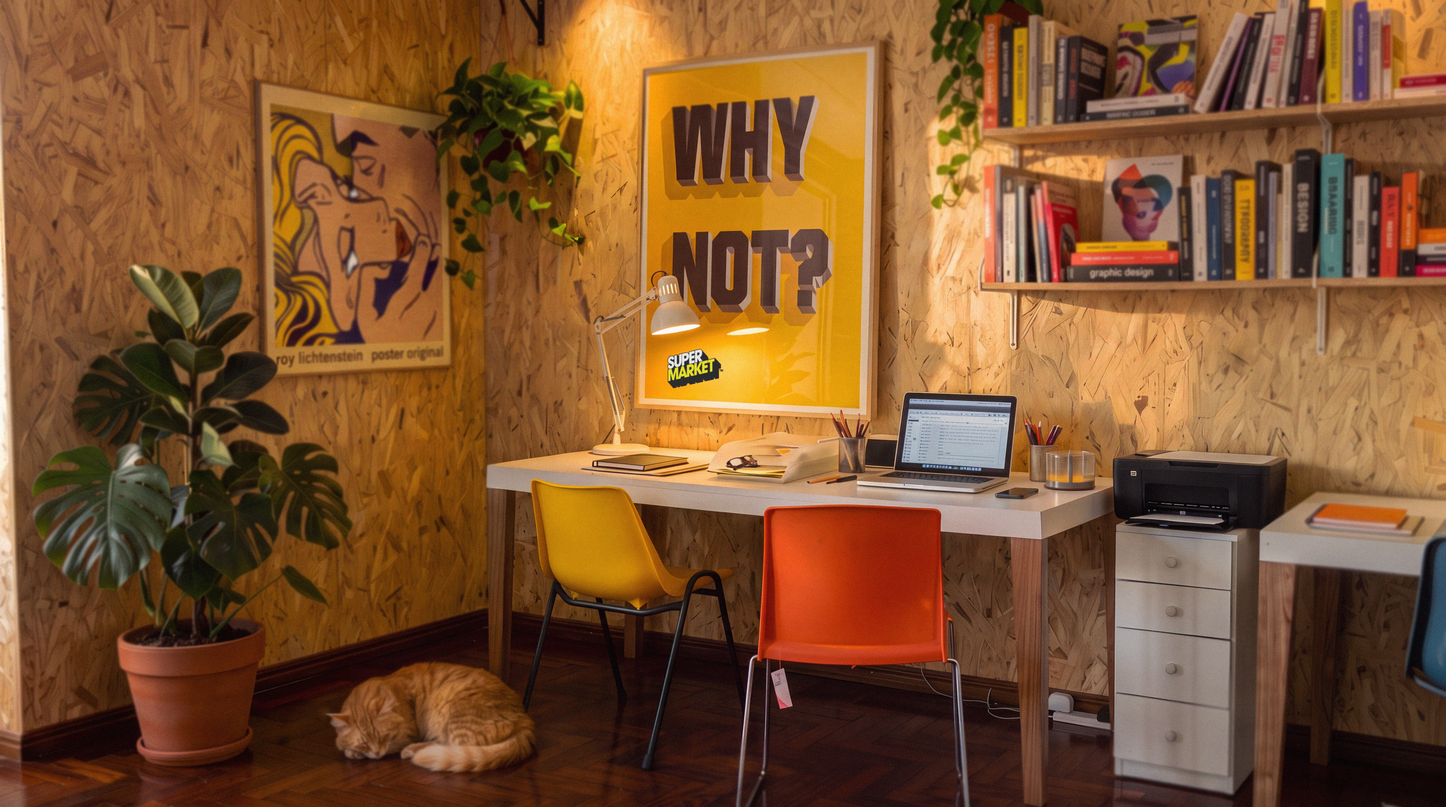
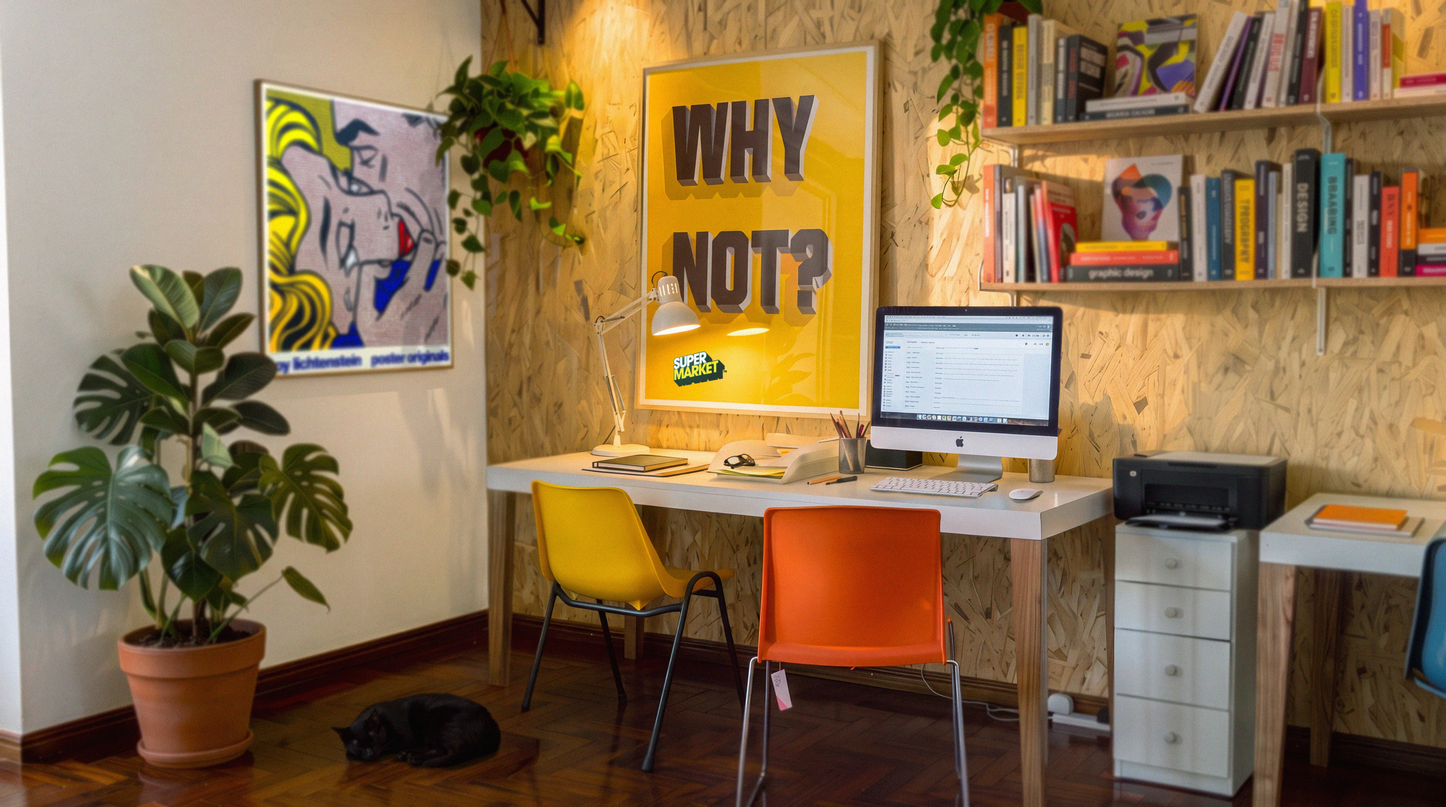
Fotos About Us

diff --git a/supermarket/about.html b/supermarket/about.html
@@ -38,7 +38,7 @@
 <section class="wrap about-hero-section">
   <div class="about-hero">
     <div class="about-hero__main">
-      <div class="carousel" data-carousel data-seconds="8" style="--fade:1.2s"><img class="carousel__slide is-active" src="assets/images/studio.jpg" alt="" fetchpriority="high" decoding="async"><img class="carousel__slide" data-src="assets/images/studio-gato.jpg" alt="" decoding="async"><img class="carousel__slide" data-src="assets/images/oficina03.jpg" alt="" decoding="async"><img class="carousel__slide" data-src="assets/images/hamza-shaikh-uXtvnZl_FWM-unsplash.webp" alt="" decoding="async"></div>
+      <div class="carousel" data-carousel data-seconds="8" style="--fade:1.2s"><img class="carousel__slide is-active" src="assets/images/studio-cuadro-negro.jpg" alt="" fetchpriority="high" decoding="async"><img class="carousel__slide" data-src="assets/images/studio-gato.jpg" alt="" decoding="async"><img class="carousel__slide" data-src="assets/images/studio3.jpg" alt="" decoding="async"></div>
       <h1 class="about-hero__title">Everything<br>is possible.</h1>
     </div>
     <div class="about-hero__side">
@@ -46,7 +46,7 @@
       company. We are diverse, collaborative, providing flexibility in customizing each project to suit
       your business needs.</p>
       <div class="about-hero__media">
-        <div class="carousel" data-carousel data-seconds="12" style="--fade:1.2s"><img class="carousel__slide is-active" src="assets/images/studio-gato.jpg" alt="" fetchpriority="high" decoding="async"><img class="carousel__slide" data-src="assets/images/kobu-agency-MBtcLadqc6c-unsplash.webp" alt="" decoding="async"><img class="carousel__slide" data-src="assets/images/philipp-mandler-CiNHG2xuVlQ-unsplash.webp" alt="" decoding="async"><img class="carousel__slide" data-src="assets/images/annie-spratt-hCb3lIB8L8E-unsplash.webp" alt="" decoding="async"></div>
+        <div class="carousel" data-carousel data-seconds="12" style="--fade:1.2s"><img class="carousel__slide is-active" src="assets/images/gato.png" alt="" fetchpriority="high" decoding="async"><img class="carousel__slide" data-src="assets/images/studio-space-commited.jpg" alt="" decoding="async"><img class="carousel__slide" data-src="assets/images/cuaderno-closeup.jpg" alt="" decoding="async"></div>
       </div>
     </div>
   </div>

diff --git a/supermarket/build.py b/supermarket/build.py
@@ -337,10 +337,9 @@ ABOUT_CAROUSEL_1 = {
     "seconds": 8,      # cada cuántos segundos cambia de foto
     "fade": 1.2,       # duración del fundido entre una foto y la siguiente (segundos)
     "images": [
-        "assets/images/studio.jpg",
+        "assets/images/studio-cuadro-negro.jpg",
         "assets/images/studio-gato.jpg",
-        "assets/images/oficina03.jpg",
-        "assets/images/hamza-shaikh-uXtvnZl_FWM-unsplash.webp",
+        "assets/images/studio3.jpg",
     ],
 }
 
@@ -348,10 +347,9 @@ ABOUT_CAROUSEL_2 = {
     "seconds": 12,
     "fade": 1.2,
     "images": [
-        "assets/images/studio-gato.jpg",
-        "assets/images/kobu-agency-MBtcLadqc6c-unsplash.webp",
-        "assets/images/philipp-mandler-CiNHG2xuVlQ-unsplash.webp",
-        "assets/images/annie-spratt-hCb3lIB8L8E-unsplash.webp",
+        "assets/images/gato.png",
+        "assets/images/studio-space-commited.jpg",
+        "assets/images/cuaderno-closeup.jpg",
     ],
 }
 
